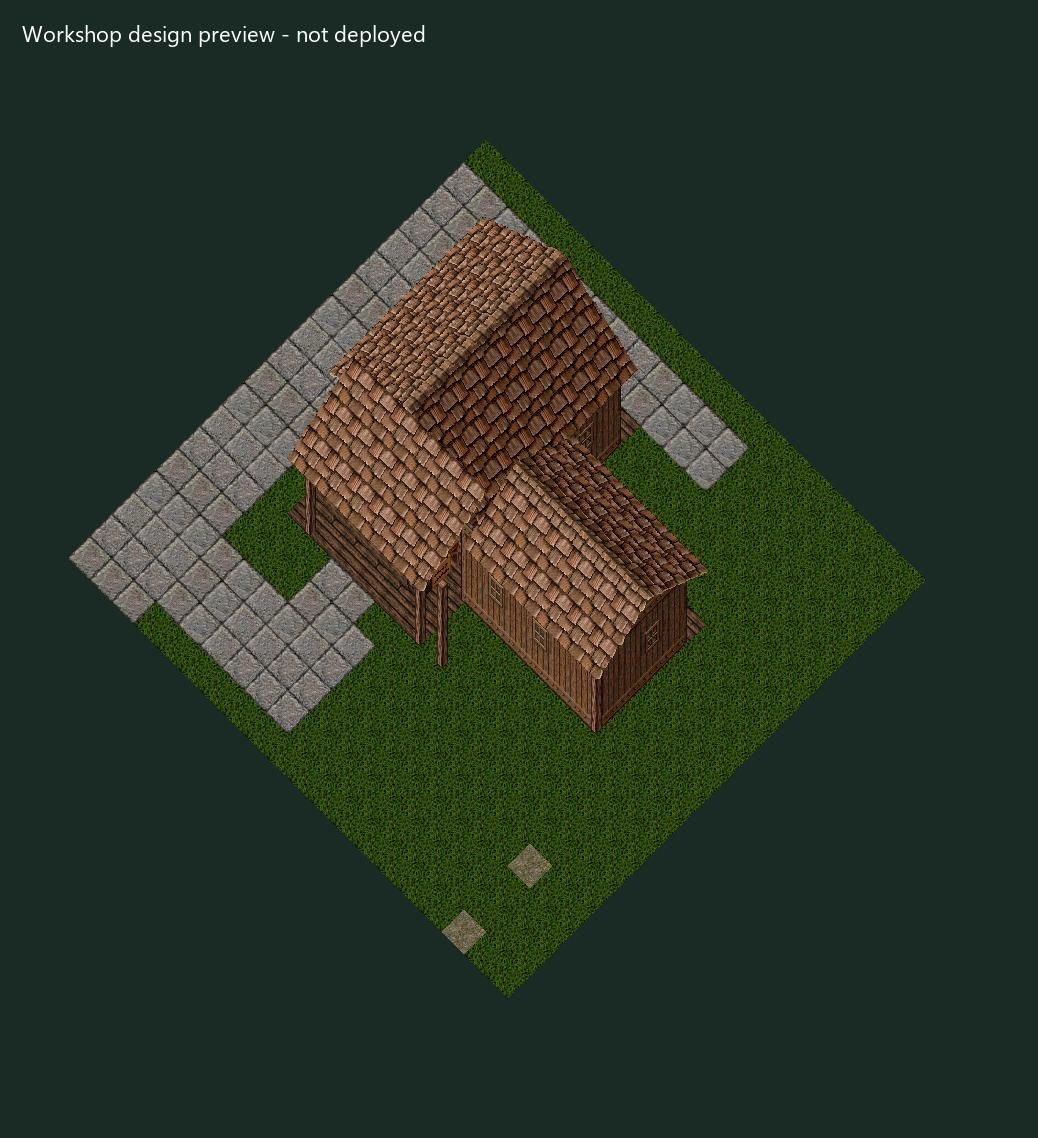
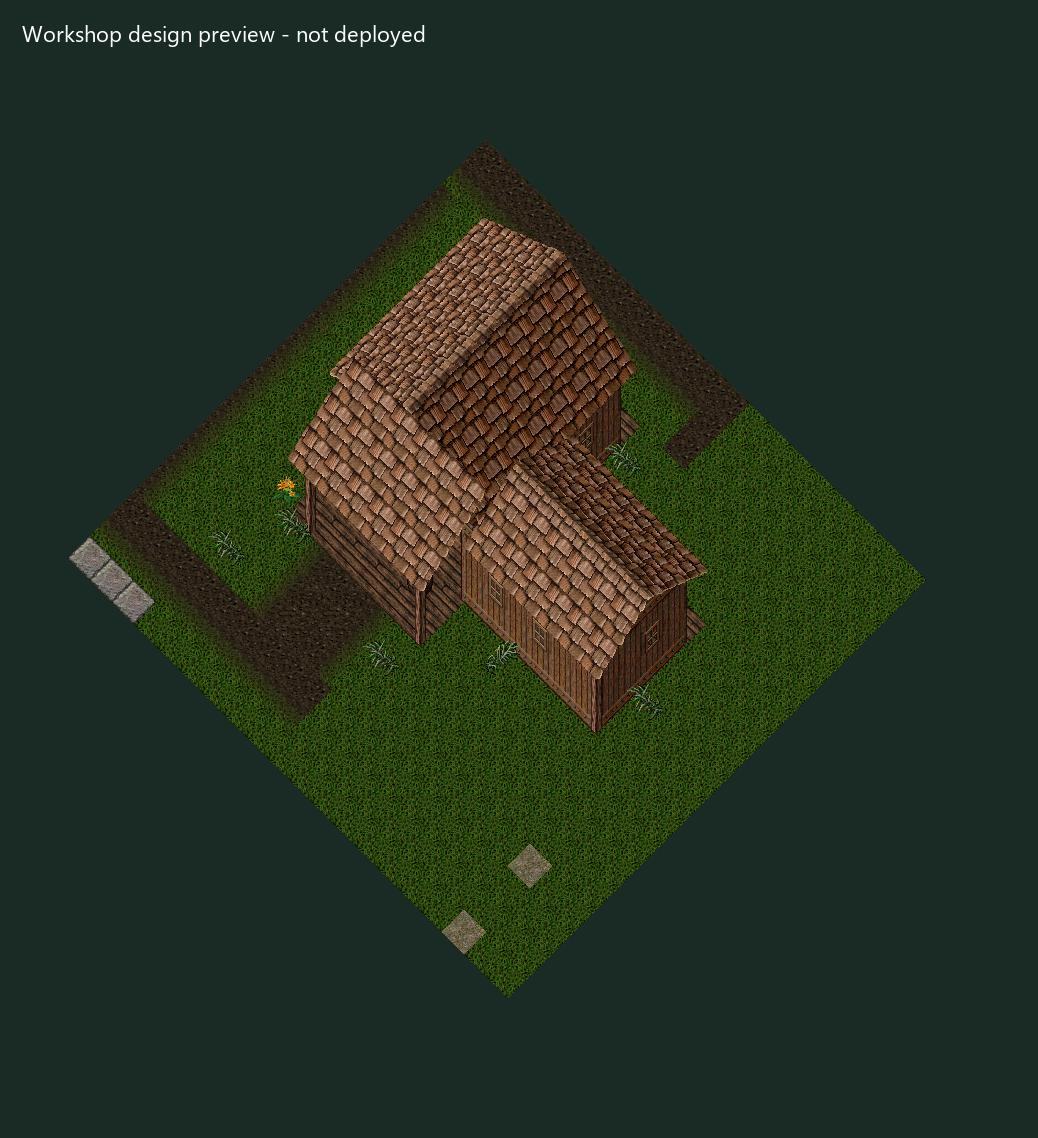
Refine workshop furnishings and replace paved perimeter with earth routes

diff --git a/tools/plan-corsair-workshop.py b/tools/plan-corsair-workshop.py
@@ -46,8 +46,30 @@ for x in range(94,100):
     for y in range(84,87): add('porch roof',0x5CF,x,y,26-3*(y-84))
 for x in (93,98): add('porch post',0x9,x,85)
 for x in range(94,99): add('porch beam',0x142,x,85,17)
-for y in (86,87,88,89):
-    for x in (95,96): add('entrance paving',0x519+(x+y)%4,x,y)
+# Earth approaches join the doorway and grove route; no paved perimeter.
+# These are private-map edits, requiring matching server and client data.
+def land(art,x,y): add('workshop approach terrain',art,x,y,type='Land')
+for y in range(86,90):
+    for x in (95,96): land(0x76+(x+y)%3,x,y)
+    land(0x89,94,y)
+    land(0x87,97,y)
+# The grove bypass runs away from the walls instead of outlining the building.
+for y in range(73,90):
+    land(0x77,88,y)
+    land(0x89,87,y)
+    land(0x87,89,y)
+for x in range(89,98):
+    land(0x77,x,89)
+    land(0x86,x,90)
+for x in range(89,101):
+    land(0x77,x,73)
+    land(0x8A,x,72)
+    land(0x86,x,74)
+for y in (74,75): land(0x77,100,y)
+for x,y in ((93,86),(98,87),(92,88),(99,77),(105,82)):
+    add('path-edge grass',0xCAD,x,y)
+add('porch corner flowers',0xC85,92,85)
+add('wing foundation grass',0xCAC,101,84)
 
 # Material stores against walls; a clear central route joins both workrooms.
 for x in (93,94): add('lumber stock',0x1BDD,x,77)
@@ -56,24 +78,28 @@ add('small fittings crate',0xE3F,95,77,3)
 add('tool shelf',0xA9D,96,77)
 add('saw',0x1034,96,77,6)
 add('hammer',0x102A,96,77,12)
-add('joinery table',0xB90,94,80)
+add('joinery table',0xB7D,94,80)
 add('cut board',0x1BD7,94,80,6)
 add('work stool',0xA2A,94,79)
 add('hardware barrel',0xE77,93,81)
+add('hardware crate',0xE3D,93,80)
 add('sail cutting table',0xB90,101,81)
 add('sailcloth',0x1765,101,81,6)
 add('shears',0xF9E,101,81,6)
 add('cloth shelf',0xA9D,103,80)
 add('cloth reserve',0x1767,103,80,6)
 add('sewing kit',0xF9D,103,80,12)
-add('spare thread',0xFA0,102,80)
+add('thread tray',0xFA0,103,80,6)
+add('sailmakers stool',0xA2A,101,82)
+add('cloth chest',0xE3D,100,80)
+add('cloth bundle',0x1767,100,80,3)
 add('net repair table',0xB90,94,84)
 add('net repair',0xDC8,94,84,6)
 add('rigging barrel',0xE77,97,84)
 add('rigging coil',0x14F8,97,84,5)
-add('porch signpost',0x9,99,85)
-add('sign bracket',0xB98,99,85,5)
-add('R.E.C. Shipwright & Sailmaker',0xBD0,99,85,5)
+# Use the existing porch corner post rather than a third, mismatched upright.
+add('sign bracket',0xB97,98,85,7)
+add('R.E.C. Shipwright & Sailmaker',0xBCF,98,85,7)
 
 if __name__=='__main__':
     parser=argparse.ArgumentParser(description=__doc__)
